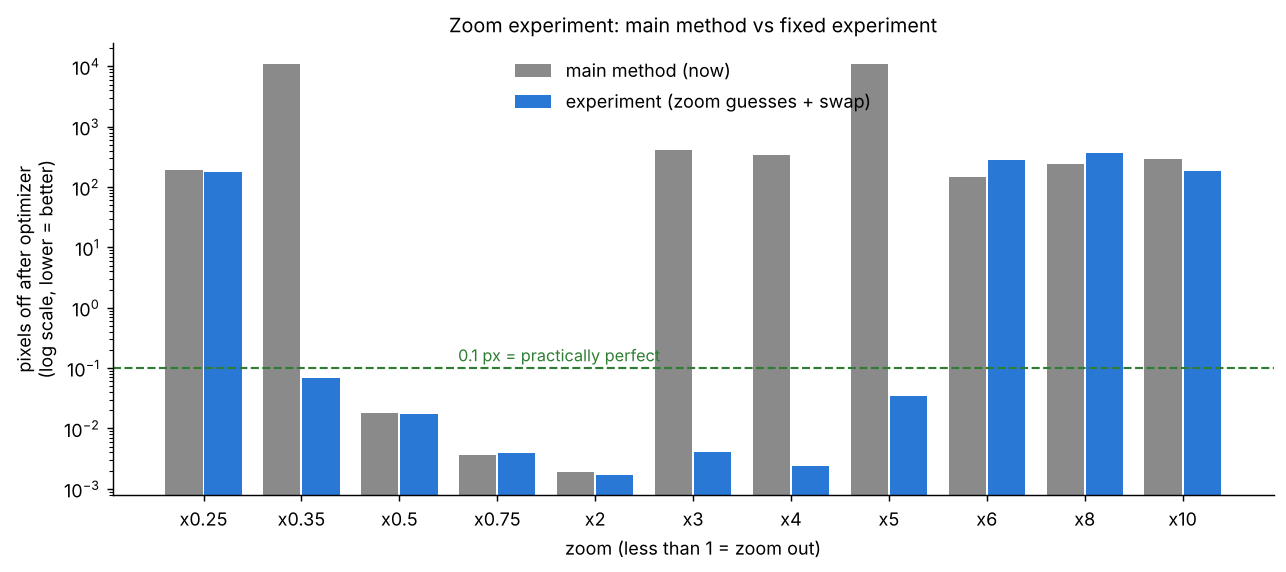
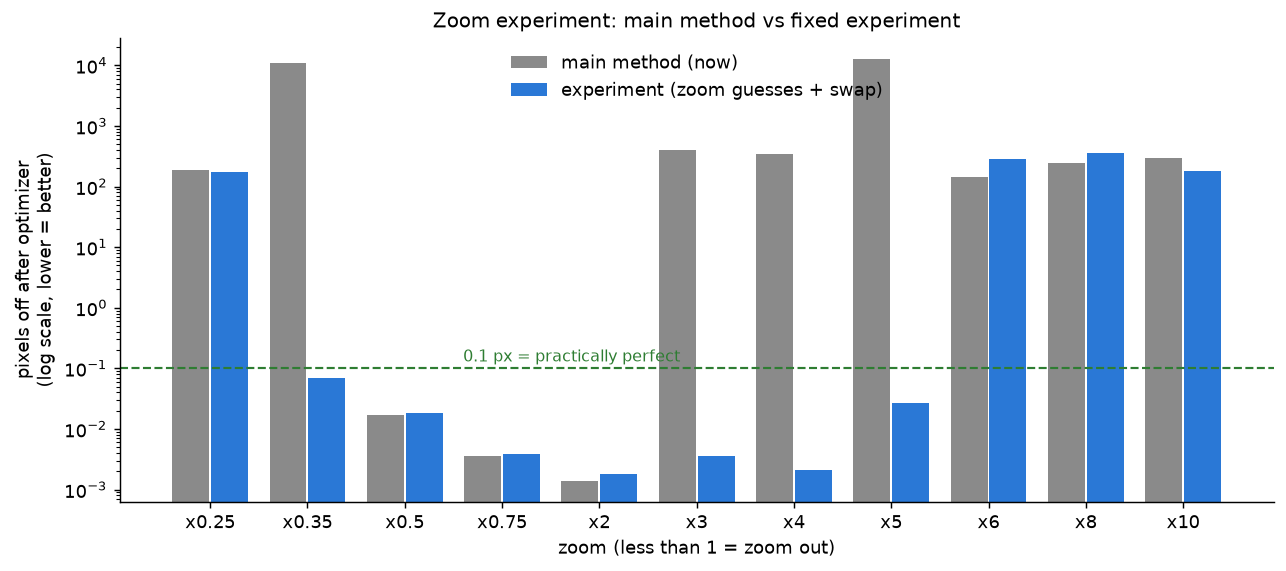
Q&A: log-polar and sliding explained with a picture (Q21)
Claude-Session: https://claude.ai/code/session_01RXpx79UWUGNuF9rDP5hVa9

diff --git a/explanations/make_log_polar_explained.py b/explanations/make_log_polar_explained.py
@@ -1,0 +1,119 @@
+"""
+Makes ONE picture that explains the log-polar ("clock picture") idea simply.
+Rows 1-2: toy drawings (a coloured pie and coloured rings), so you can SEE the slide.
+Rows 3-4: my Bangkok photo, test1 (turned 30 deg) and test2 (zoomed x1.5).
+Run from the main folder:  python explanations/make_log_polar_explained.py
+Output: explanations/log_polar_explained.png
+"""
+import os
+import cv2
+import matplotlib
+matplotlib.use("Agg")
+import matplotlib.pyplot as plt
+import numpy as np
+
+HERE = os.path.dirname(os.path.abspath(__file__))
+ROOT = os.path.abspath(os.path.join(HERE, ".."))
+COLORS = ["#2a78d6", "#eb6834", "#1baf7a", "#eda100", "#e87ba4", "#008300", "#6250d6", "#e34948"]
+ROWS, COLS = 360, 256
+
+
+def rgb(hexcode):
+    return [int(hexcode[i:i + 2], 16) for i in (1, 3, 5)]
+
+
+def pie(turn_deg=0, size=400):
+    """8 coloured slices around the middle (like a clock with 8 colours)."""
+    y, x = np.mgrid[0:size, 0:size] - size / 2
+    ang = (np.degrees(np.arctan2(y, x)) - turn_deg) % 360
+    img = np.zeros((size, size, 3), np.uint8)
+    for k in range(8):
+        img[(ang >= 45 * k) & (ang < 45 * (k + 1))] = rgb(COLORS[k])
+    return img
+
+
+def rings(zoom=1.0, size=400):
+    """Coloured rings, each ring TWICE as far out as the one before (5, 10, 20, 40, 80, 160 px)."""
+    y, x = np.mgrid[0:size, 0:size] - size / 2
+    r = np.hypot(x, y) / zoom
+    img = np.full((size, size, 3), 255, np.uint8)
+    edges = [0, 5, 10, 20, 40, 80, 160, 320, 10_000]
+    for k in range(len(edges) - 1):
+        img[(r >= edges[k]) & (r < edges[k + 1])] = rgb(COLORS[k % 8])
+    return img
+
+
+def clock(img, radius):
+    h, w = img.shape[:2]
+    return cv2.warpPolar(img, (COLS, ROWS), (w / 2, h / 2), radius,
+                         cv2.INTER_LINEAR + cv2.WARP_POLAR_LOG)
+
+
+def show(ax, img, title, gray=False, aspect="equal"):
+    ax.imshow(img, cmap="gray" if gray else None, aspect=aspect)
+    ax.set_title(title, fontsize=10)
+    ax.set_xticks([])
+    ax.set_yticks([])
+
+
+def main():
+    fig, ax = plt.subplots(4, 4, figsize=(16, 17))
+
+    # Row 1: turn the pie by 45 degrees -> clock picture slides DOWN by 45 rows
+    p0, p1 = pie(0), pie(45)
+    show(ax[0, 0], p0, "A. Pie with 8 colours")
+    show(ax[0, 1], p1, "B. Same pie, TURNED 45° clockwise")
+    show(ax[0, 2], clock(p0, 200), "Clock picture of A (row = direction: top row = pointing\nRIGHT, then going around clockwise to the bottom)", aspect="auto")
+    show(ax[0, 3], clock(p1, 200), "Clock picture of B\n= the SAME stripes, slid DOWN 45 rows", aspect="auto")
+    ax[0, 3].annotate("", xy=(128, 45 + 22), xytext=(128, 22),
+                      arrowprops=dict(arrowstyle="-|>", color="black", lw=2))
+
+    # Row 2: zoom the rings x2 -> clock picture slides RIGHT by one ring
+    r0, r1 = rings(1), rings(2)
+    show(ax[1, 0], r0, "C. Rings, each twice as far out")
+    show(ax[1, 1], r1, "D. Same rings, ZOOMED ×2")
+    show(ax[1, 2], clock(r0, 200), "Clock picture of C (column = distance,\nlog ruler: every ring is the same width)", aspect="auto")
+    show(ax[1, 3], clock(r1, 200), "Clock picture of D\n= the SAME stripes, slid RIGHT by one ring", aspect="auto")
+    step = COLS * np.log(2) / np.log(200)
+    ax[1, 3].annotate("", xy=(140 + step, 180), xytext=(140, 180),
+                      arrowprops=dict(arrowstyle="-|>", color="black", lw=2))
+
+    # Rows 3-4: the real photo
+    o = cv2.imread(os.path.join(ROOT, "images/original.jpg"), cv2.IMREAD_GRAYSCALE)
+    t1 = cv2.imread(os.path.join(ROOT, "images/generated/test1.png"), cv2.IMREAD_GRAYSCALE)
+    t2 = cv2.imread(os.path.join(ROOT, "images/generated/test2.png"), cv2.IMREAD_GRAYSCALE)
+    h, w = o.shape
+    R = float(np.hypot(w / 2, h / 2))                   # 376 px, half the diagonal
+    tower = (330, 150)                                   # the tall tower, top right
+    dx, dy = tower[0] - w / 2, tower[1] - h / 2
+    row0 = np.degrees(np.arctan2(dy, dx)) % 360          # its direction  (row)
+    col0 = COLS * np.log(np.hypot(dx, dy)) / np.log(R)   # its distance   (column)
+
+    show(ax[2, 0], o, "E. My photo (tower = red dot)", gray=True)
+    ax[2, 0].plot(*tower, "o", color="#e34948", ms=9)
+    show(ax[2, 1], t1, "F. test1: TURNED 30° counter-clockwise", gray=True)
+    show(ax[2, 2], clock(o, R), f"Clock picture of E\ntower at row {row0:.0f}", gray=True, aspect="auto")
+    ax[2, 2].plot(col0, row0, "o", color="#e34948", ms=9)
+    show(ax[2, 3], clock(t1, R), f"Clock picture of F: same picture, slid 30 rows UP\n(turned the other way) → tower at row {row0 - 30:.0f}", gray=True, aspect="auto")
+    ax[2, 3].plot(col0, row0 - 30, "o", color="#e34948", ms=9)
+
+    show(ax[3, 0], o, "E. My photo again", gray=True)
+    ax[3, 0].plot(*tower, "o", color="#e34948", ms=9)
+    show(ax[3, 1], t2, "G. test2: ZOOMED ×1.5", gray=True)
+    show(ax[3, 2], clock(o, R), f"Clock picture of E\ntower at column {col0:.0f}", gray=True, aspect="auto")
+    ax[3, 2].plot(col0, row0, "o", color="#e34948", ms=9)
+    c2 = col0 + COLS * np.log(1.5) / np.log(R)
+    show(ax[3, 3], clock(t2, R), f"Clock picture of G: same picture,\nslid 17.5 columns RIGHT → tower at column {c2:.0f}", gray=True, aspect="auto")
+    ax[3, 3].plot(c2, row0, "o", color="#e34948", ms=9)
+
+    fig.suptitle("Turning a photo = sliding its clock picture up/down.   Zooming = sliding it right.\n"
+                 "Left two: normal photos (everything moves differently).   Right two: clock pictures (everything moves the SAME way).",
+                 fontsize=13, fontweight="bold")
+    plt.tight_layout(rect=(0, 0, 1, 0.96), h_pad=2.5)
+    out = os.path.join(HERE, "log_polar_explained.png")
+    plt.savefig(out, dpi=90, bbox_inches="tight")
+    print("Saved", out)
+
+
+if __name__ == "__main__":
+    main()

diff --git a/QUESTIONS_AND_ANSWERS.md b/QUESTIONS_AND_ANSWERS.md
@@ -442,3 +442,37 @@ Finding a close-up of ONE building in a photo of the whole city:
 - **Zoom out ×0.35 and less:** the test photo is mostly black with a tiny city inside.
   (Fix tested: swap the photos and look for the city photo inside the test photo.)
 Picture: `experiments/zoom_fix/why_zoom_fails.png`.
+
+## Q21. Why do we need log-polar? What is "sliding"? (with picture)
+Picture: `explanations/log_polar_explained.png` (make it again: `python explanations/make_log_polar_explained.py`).
+
+**Sliding** = moving a whole picture in one direction, every pixel by the SAME amount
+(like sliding a sheet of paper across the table). A slide is easy to find: try every slide, keep the best match.
+
+**The problem:** turning or zooming a photo is NOT a slide. When you turn a photo, pixels near the
+middle move a little, pixels at the edge move a lot, in different directions. So you can't just slide
+photo 2 back over photo 1.
+
+**The clock picture (log-polar)** = re-draw the photo as seen from the middle:
+- each ROW = one direction (360 rows = 360 degrees, like the hand of a clock going around),
+- each COLUMN = how far from the middle (on a log ruler: 1, 2, 4, 8, 16 … are equally spaced).
+
+**Why it helps:**
+- Turn the photo 45° → everything is now 45° further around the clock → the whole clock picture
+  slides 45 rows (pie example, row 1 of the picture: same colour stripes, just one stripe lower).
+- Zoom the photo ×2 → everything is twice as far from the middle → on the log ruler "twice as far"
+  is always the same step → the whole clock picture slides right by one step (rings example, row 2).
+- My photo: test1 turned 30° → the tower moves from row 307 to row 277 (30 rows);
+  test2 zoomed ×1.5 → the tower moves from column 229 to 247 (17.5 columns).
+
+So log-polar turns the HARD problem (turn + zoom) into the EASY problem (find a slide).
+How many rows it slid = the turn; how many columns = the zoom.
+Why the log? Without it, zoom would STRETCH the stripes (near ones a little, far ones a lot) instead
+of sliding them. The log makes every "×2" the same width, so a zoom becomes a slide.
+
+**Script parts 3 and 4 in one sentence each:**
+- Part 3: the clock picture turns a turn into a slide down and a zoom into a slide right.
+- Part 4: phase correlation tries every slide at once and finds the best one (test1: 30 rows = 30°;
+  test2: 17.1 columns = ×1.487). For moved photos (test3–5) it fails, because the middle of the test
+  photo shows a different place, so the two clock pictures are of different things.
+
